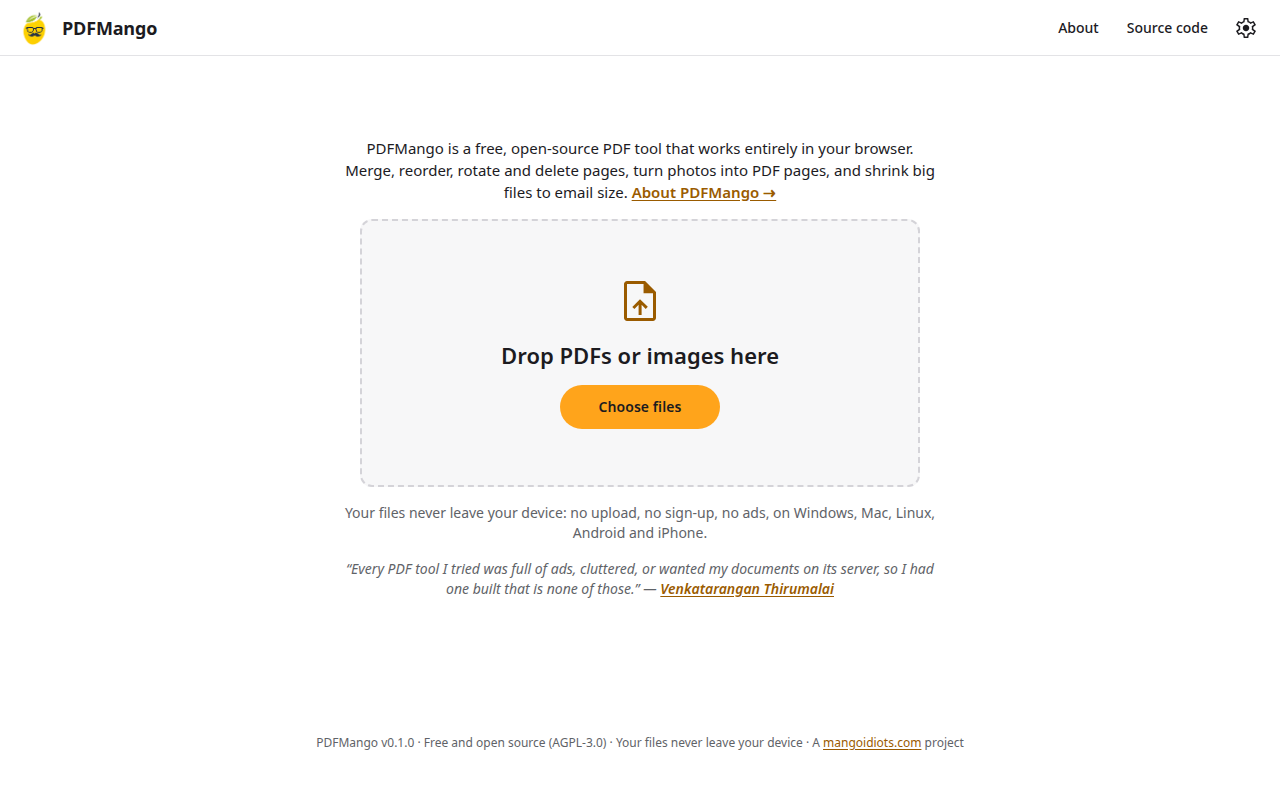
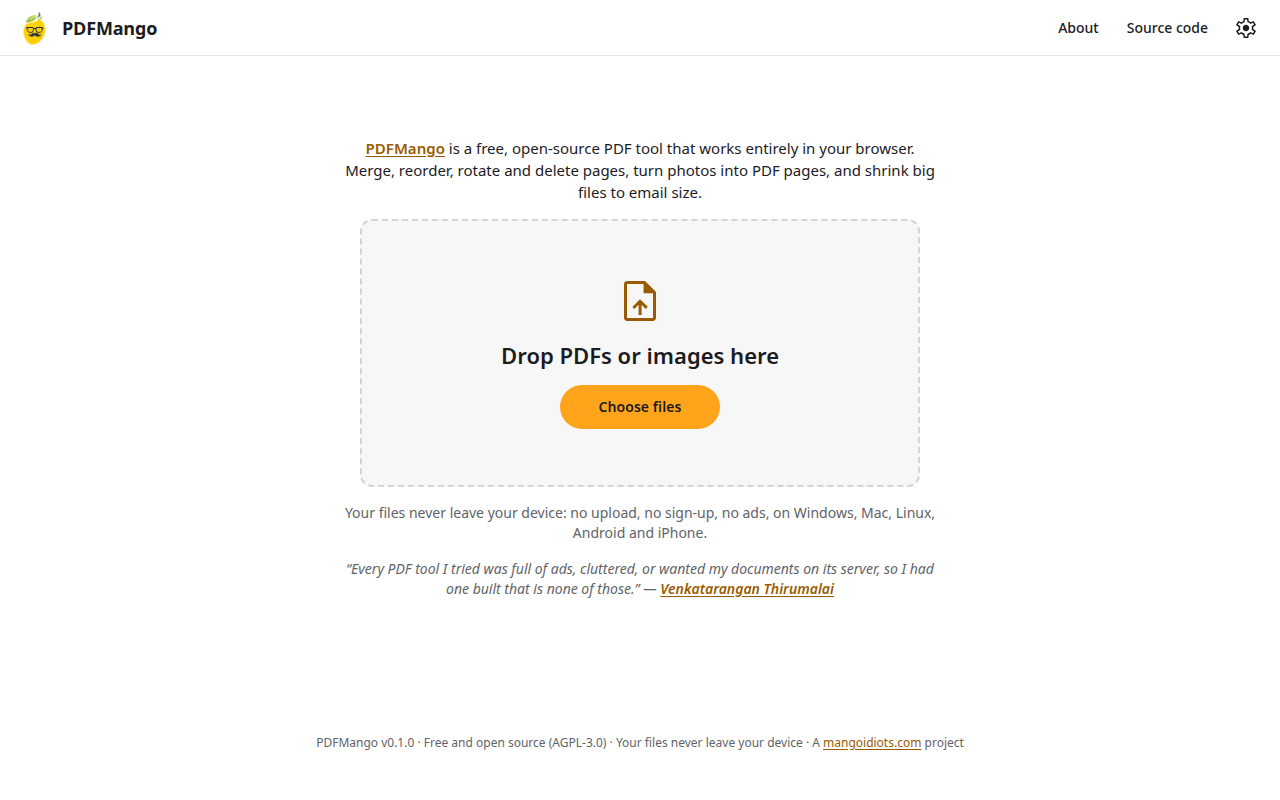
Clearer flow: Preview on the grid, Preview & Share at the top of the popup, Direct Download below
- Grid and phone bottom bar: Download button renamed Preview.
- Popup is titled "Your PDF"; its main button, Preview & Share, sits at
  the top (in reach on phones) with build progress beside it; the bottom
  button is now Direct Download. Where the browser can't share files the
  top button just says Preview.

Claude-Session: https://claude.ai/code/session_01HY5Sj5pXtUsR9CEWAk1fRC

Changed region(s): [[0.2812, 0.1562, 0.7188, 0.25]]

diff --git a/tests/e2e/app.spec.ts b/tests/e2e/app.spec.ts
@@ -31,10 +31,10 @@ async function openOutput(download: Download) {
 
 async function download(page: Page, setup?: () => Promise<void>) {
   await page.locator('.toolbar .btn-filled, .bottombar .download').locator('visible=true').click();
-  await expect(page.getByRole('dialog', { name: 'Download PDF' })).toBeVisible();
+  await expect(page.getByRole('dialog', { name: 'Your PDF' })).toBeVisible();
   await setup?.();
   const [dl] = await Promise.all([page.waitForEvent('download'), page.locator('dialog[open] button[type=submit]').click()]);
-  await expect(page.getByRole('dialog', { name: 'Download PDF' })).toBeHidden({ timeout: 30_000 });
+  await expect(page.getByRole('dialog', { name: 'Your PDF' })).toBeHidden({ timeout: 30_000 });
   return dl;
 }
 
@@ -122,7 +122,7 @@ test('images: default A4 with no margin; Medium margin and original size from th
   out.doc.destroy();
   out = await openOutput(
     await download(page, async () => {
-      const dlg = page.getByRole('dialog', { name: 'Download PDF' });
+      const dlg = page.getByRole('dialog', { name: 'Your PDF' });
       await dlg.getByText('Original image size').click();
       await dlg.getByText('Medium', { exact: true }).click();
     }),
@@ -135,7 +135,7 @@ test('Balanced compression shrinks the photo-heavy PDF by at least 40%', async (
   await page.goto('/');
   await addFiles(page, ['photo-heavy.pdf'], 12);
   const input = readFileSync(fx('photo-heavy.pdf')).length;
-  const out = await openOutput(await download(page, () => page.getByRole('dialog', { name: 'Download PDF' }).getByText('Balanced', { exact: true }).click()));
+  const out = await openOutput(await download(page, () => page.getByRole('dialog', { name: 'Your PDF' }).getByText('Balanced', { exact: true }).click()));
   expect(out.count).toBe(12);
   expect(out.size).toBeLessThan(input * 0.6);
   out.doc.destroy();
@@ -154,7 +154,7 @@ test('password-protected PDF: wrong password, then the right one', async ({ page
   await dlg.getByRole('button', { name: 'Open' }).click();
   await expect(cards(page)).toHaveCount(3);
   await page.locator('.toolbar .btn-filled').click();
-  await expect(page.getByRole('dialog', { name: 'Download PDF' }).getByText('The downloaded copy will not be password-protected.')).toBeVisible();
+  await expect(page.getByRole('dialog', { name: 'Your PDF' }).getByText('The downloaded copy will not be password-protected.')).toBeVisible();
 });
 
 test('refuses owner-restricted PDFs, HEIC/WebP and other files with one-line messages', async ({ page }) => {
@@ -297,7 +297,7 @@ test('settings: easy choices, remembered in this browser, credit line in the PDF
   await page.reload();
   await addFiles(page, ['tamil-unicode.pdf'], 3);
   const out = await openOutput(
-    await download(page, () => expect(page.getByRole('dialog', { name: 'Download PDF' }).getByText('Shrinks large photos to 200 ppi.')).toBeVisible()),
+    await download(page, () => expect(page.getByRole('dialog', { name: 'Your PDF' }).getByText('Shrinks large photos to 200 ppi.')).toBeVisible()),
   );
   expect(out.doc.getMetaData('info:Producer')).toBe('Made by the test');
   out.doc.destroy();
@@ -313,7 +313,7 @@ test('preview the finished PDF, then download it without rebuilding @phone', asy
   await page.goto('/');
   await addFiles(page, ['tamil-unicode.pdf', 'phone-portrait-exif6.jpg'], 4);
   await page.locator('.toolbar .btn-filled, .bottombar .download').locator('visible=true').click();
-  await page.getByRole('dialog', { name: 'Download PDF' }).getByRole('button', { name: 'Preview' }).click();
+  await page.getByRole('dialog', { name: 'Your PDF' }).getByRole('button', { name: /^Preview/ }).click();
   const preview = page.getByRole('dialog', { name: 'Preview of the PDF to download' });
   await expect(preview).toBeVisible();
   await expect(preview).toContainText('merged.pdf');
@@ -342,7 +342,7 @@ test('Share hands the PDF to the system share sheet where supported', async ({ p
   await page.goto('/');
   await addFiles(page, ['tamil-unicode.pdf'], 3);
   await page.locator('.toolbar .btn-filled').click();
-  await page.getByRole('dialog', { name: 'Download PDF' }).getByRole('button', { name: 'Preview' }).click();
+  await page.getByRole('dialog', { name: 'Your PDF' }).getByRole('button', { name: /^Preview/ }).click();
   const preview = page.getByRole('dialog', { name: 'Preview of the PDF to download' });
   await preview.getByRole('button', { name: 'Share' }).click();
   await expect.poll(() => page.evaluate(() => (window as unknown as { shared?: unknown }).shared)).toEqual([

diff --git a/src/components/DownloadDialog.svelte b/src/components/DownloadDialog.svelte
@@ -1,5 +1,5 @@
 <script lang="ts">
-  import { ExportJob, type BuiltPdf } from '../lib/actions.svelte';
+  import { ExportJob, canShareFiles, type BuiltPdf } from '../lib/actions.svelte';
   import { levels, MARGINS, planFor } from '../lib/compression';
   import { marginPtFor } from '../lib/settings';
   import { settings } from '../lib/settings.svelte';
@@ -60,11 +60,28 @@
     onpreview(built);
   }
 
+  // Where the browser can't share files (some desktops), the button just says Preview.
+  const previewLabel = canShareFiles() ? 'Preview & Share' : 'Preview';
+
   const pct = $derived(job.progress && job.progress.total > 0 ? Math.round((job.progress.done / job.progress.total) * 100) : 0);
 </script>
 
-<Dialog {open} title="Download PDF" sheet initialFocus="button[type=submit]" dismissable={!job.running} onclose={() => !job.running && onclose()}>
+<Dialog {open} title="Your PDF" sheet initialFocus=".top-action" dismissable={!job.running} onclose={() => !job.running && onclose()}>
   <form id="download-form" class="form" onsubmit={download}>
+    <!-- The main action sits at the top so it is in reach on phones; progress shows here too. -->
+    {#if job.running && job.progress}
+      <div class="progress">
+        <div class="bar" role="progressbar" aria-label="Building the PDF" aria-valuemin={0} aria-valuemax={100} aria-valuenow={pct}>
+          <div class="fill" style:width="{pct}%"></div>
+        </div>
+        <p class="step" aria-live="polite">{job.progress.step}</p>
+      </div>
+    {:else}
+      <button type="button" class="btn btn-filled top-action" onclick={preview}>
+        <Icon name={previewLabel === 'Preview' ? 'preview' : 'share'} /> {previewLabel}
+      </button>
+    {/if}
+
     <label class="field">
       <span>File name</span>
       <input type="text" bind:value={fileName} disabled={job.running} spellcheck="false" autocomplete="off" enterkeyhint="done" />
@@ -105,15 +122,6 @@
         {#each notices as n (n)}<li><Icon name="info" size={18} /> {n}</li>{/each}
       </ul>
     {/if}
-
-    {#if job.running && job.progress}
-      <div class="progress">
-        <div class="bar" role="progressbar" aria-label="Building the PDF" aria-valuemin={0} aria-valuemax={100} aria-valuenow={pct}>
-          <div class="fill" style:width="{pct}%"></div>
-        </div>
-        <p class="step" aria-live="polite">{job.progress.step}</p>
-      </div>
-    {/if}
   </form>
 
   {#snippet actions()}
@@ -121,8 +129,7 @@
       <button type="button" class="btn btn-outlined" onclick={() => job.cancel()}>Cancel</button>
     {:else}
       <button type="button" class="btn btn-text" onclick={onclose}>Close</button>
-      <button type="button" class="btn btn-outlined" onclick={preview}><Icon name="preview" /> Preview</button>
-      <button type="submit" form="download-form" class="btn btn-filled"><Icon name="download" /> Download</button>
+      <button type="submit" form="download-form" class="btn btn-outlined"><Icon name="download" /> Direct Download</button>
     {/if}
   {/snippet}
 </Dialog>
@@ -132,6 +139,11 @@
     display: flex;
     flex-direction: column;
     gap: 18px;
+  }
+  .top-action {
+    width: 100%;
+    min-height: 52px;
+    font-size: 16px;
   }
   .field {
     display: flex;

diff --git a/about/index.html b/about/index.html
@@ -71,8 +71,8 @@
           <li>Drop PDFs or JPG/PNG images onto the page, or press <strong>Choose files</strong>.</li>
           <li>Drag pages into the order you want (on a phone, press and hold a page, then drag).</li>
           <li>Select pages to rotate or delete them; with nothing selected, the toolbar acts on every page.</li>
-          <li>Press <strong>Download</strong> and pick a compression level: Lossless keeps everything, Balanced and Strong shrink photos, Scan makes the smallest file.</li>
-          <li>Press <strong>Preview</strong> to check the result first, then <strong>Download</strong> it, or on a phone <strong>Share</strong> it to another app.</li>
+          <li>Press <strong>Preview</strong> and pick a compression level: Lossless keeps everything, Balanced and Strong shrink photos, Scan makes the smallest file.</li>
+          <li>Press <strong>Preview &amp; Share</strong> to check the result, then <strong>Download</strong> it or <strong>Share</strong> it to another app. <strong>Direct Download</strong> skips the check.</li>
         </ol>
       </section>
 

diff --git a/src/components/Toolbar.svelte b/src/components/Toolbar.svelte
@@ -81,11 +81,11 @@
     <Icon name="startOver" /> Start over
   </button>
   <button type="button" class="btn btn-filled" onclick={ondownload} disabled={empty || busy}>
-    <Icon name="download" /> Download
+    <Icon name="preview" /> Preview
   </button>
 </div>
 
-<!-- Phones: bottom bar of icons, Download at the right end -->
+<!-- Phones: bottom bar of icons, Preview at the right end -->
 <div class="bottombar" role="toolbar" aria-label="Page actions">
   <IconButton icon="add" label="Add files" tipAbove onclick={onadd} disabled={busy} />
   <IconButton icon="rotateLeft" label="Rotate {scope} left" tipAbove onclick={() => rotate(-90)} disabled={empty || busy} />
@@ -107,7 +107,7 @@
     {/if}
   </div>
   <button type="button" class="btn btn-filled download" onclick={ondownload} disabled={empty || busy}>
-    <Icon name="download" /> Download
+    <Icon name="preview" /> Preview
   </button>
 </div>
 

diff --git a/prompt-history.md b/prompt-history.md
@@ -32,6 +32,8 @@ Venkatarangan Thirumalai first worked out the idea with **Claude Cowork**: what 
 
 10. > 1. In the main screen opening text make PDFMango hyperlink to the about page. A separate about pdfmango is not needed. 2. After doing the changes Can you give a preview option so that users can check and then download. Keep it simple. 3. On mobile can you give a share option which can invoke the share card in iPhone or android for sending it to other apps - is it doable.
 
+11. > the download, preview and share buttons flow is not clear from enduser perspective. In the first level where the pages thumbnail are shown, rename the download button to preview. in the popup that comes: rename the preview button as "Preview & Share" and move the button to the top of the popup for easy access in mobile; rename download button below as "Direct Download". Any other suggestions you may have let me know
+
 ## What changed from the plan
 
 | Topic | Plan said | What was built |

diff --git a/README.md b/README.md
@@ -47,8 +47,8 @@ If you change Settings, only your choices are saved in your browser. In the GA4 
 1. Drop PDFs or photos on the page, or press **Choose files**.
 2. Drag pages into order.
 3. Select pages to rotate or delete them.
-4. Press **Download** and pick a compression level.
-5. Press **Preview** to check the result, then **Download** (or **Share** on a phone).
+4. Press **Preview** and pick a compression level.
+5. Press **Preview & Share** to check the result, then **Download** or **Share** it. (**Direct Download** skips the check.)
 
 ## Development
 
